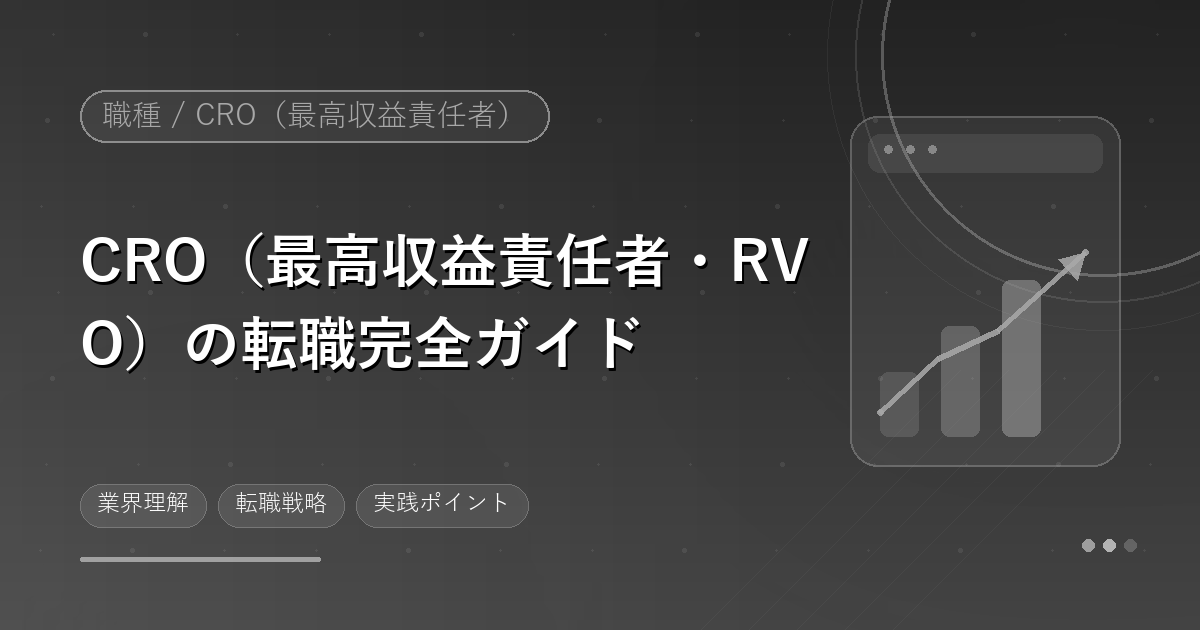
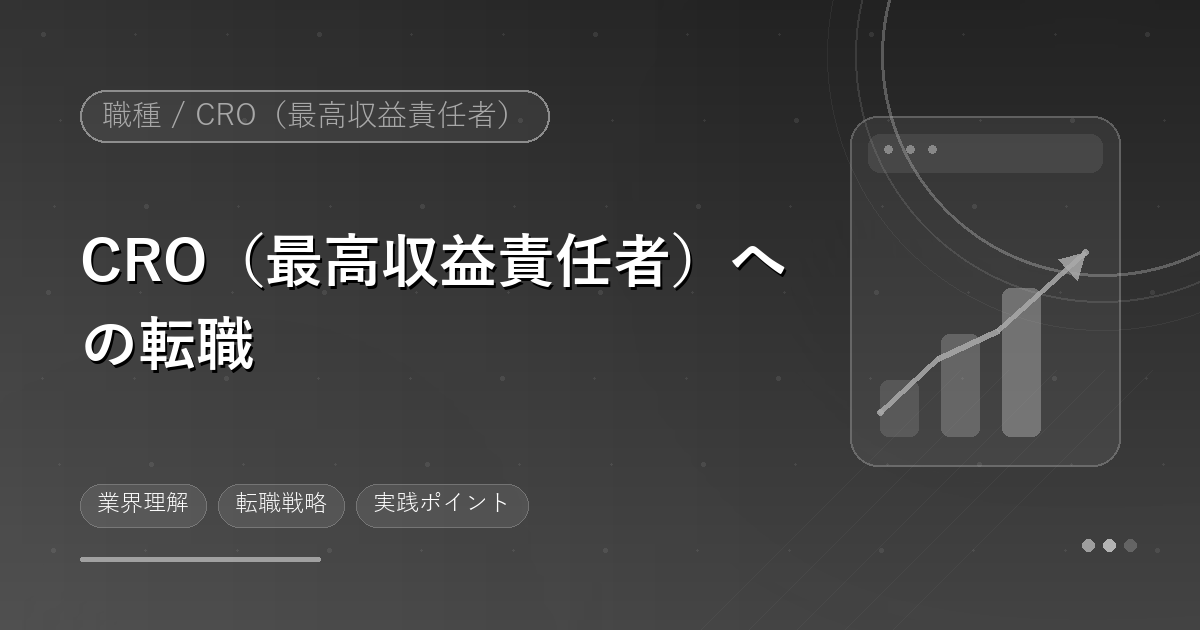
/media 企業記事など20本のタイトル・descriptionをGSC 10月分をもとに書き直し
Search Console 2026年10月で「10位以内なのにCTR1%未満」だった記事20本の
frontmatter title / description を、本文が答えている軸（年収→働き方→選考）で
組み直した案に置き換え。本文と他の frontmatter 項目は変更なし。

見出し（｜より前）が変わった7本（日本銀行・NTTコムウェア・FDE・PwC Strategy&・
TBSテレビ・CRO・プロダクトデザイナー）はアイキャッチに見出しが焼き込まれているため、
media-gen の make_images.py と同じ描画で画像を作り直した。

diff --git a/src/content/media/company-pwc-strategyand-reputation.md b/src/content/media/company-pwc-strategyand-reputation.md
@@ -1,6 +1,6 @@
 ---
-title: "Strategy&（ストラテジーアンド）とは｜PwCの戦略部門、ブーズ・アンド・カンパニーからの沿革と年収・評判"
-description: "Strategy&はPwCの戦略コンサルティング部門で、前身は1914年創業のブーズ・アンド・カンパニー（2014年にPwCへ統合）。日本では400人超のストラテジーコンサルティングユニットの一つです。沿革、年収の考え方、働き方の制度、評判、選考対策を公式情報で整理します。"
+title: "PwC Strategy&の評判｜年収の考え方・働き方の制度・選考フローを整理"
+description: "PwC Strategy&の年収は公表されているか。非上場のため平均年収の開示はなく、タイトル別レンジで決まる考え方を説明。フルリモート・コアなしフレックスなど公開されている働き方制度、ブーズからの沿革、選考フローと志望動機の要点を整理。戦略コンサルへの転職を考える人向け。"
 category: "企業"
 companyName: "Strategy&"
 hub: "consul"

diff --git a/src/content/media/network-engineer-future.md b/src/content/media/network-engineer-future.md
@@ -1,6 +1,6 @@
 ---
-title: "ネットワークエンジニアの将来性｜AI時代に生き残るネットワークエンジニアの条件"
-description: "ネットワークエンジニアの将来性を左右する構造的な変化ネットワークエンジニアの将来性に関して、率直に述べるならば「領域によって明暗が大きく分かれる」というのが現状の正確な認識です。インフラ自動化・クラウド化・AI活用が加…"
+title: "ネットワークエンジニアの将来性｜縮小・拡大する領域とスキル別の年収目安を整理"
+description: "ネットワークエンジニアに将来性はあるか。オンプレ運用のみは縮小、クラウド設計・自動化・ゼロトラストは拡大という領域別の見通し、スキル別の年収目安350万〜950万円、オンプレ専業からの移行パターン、資格の優先度を整理。キャリアの方向を決めたい人向け。"
 category: "職種"
 jobType: "ネットワークエンジニア"
 theme: "将来性"

diff --git a/src/content/media/product-designer-salary.md b/src/content/media/product-designer-salary.md
@@ -1,6 +1,6 @@
 ---
-title: "プロダクトデザイナーの年収相場【2026年版】｜20代・30代の年収レンジと上げ方"
-description: "プロダクトデザイナーの年収は、職種定義の広さや在籍企業のフェーズによって分散が大きく、同じ「プロダクトデザイナー」という肩書きでも年収差が200〜300万円以上開くケースは珍しくありません。本記事では年代・経験年数・企業…"
+title: "プロダクトデザイナーの年収｜年代・経験年数別レンジと企業タイプ別の上振れ要因"
+description: "プロダクトデザイナーの年収はいくらか。20代前半380〜520万円から30代後半800〜1,100万円までの年代・経験年数別レンジ、メガベンチャー・外資・受託など企業タイプ別のベース給与と上振れ要因、年収を左右する3つの構造、交渉例を整理。転職で年収を上げたい人向け。"
 category: "職種"
 jobType: "プロダクトデザイナー"
 theme: "年収相場"

diff --git a/src/content/media/fde-salary.md b/src/content/media/fde-salary.md
@@ -1,6 +1,6 @@
 ---
-title: "FDE（フォワードデプロイドエンジニア）の年収相場【2026年版】｜レンジの構造と上げ方"
-description: "FDEの年収は、同じ肩書きでも企業フェーズと職務範囲で大きく振れます。日本国内のレンジ目安、外資AI企業との水準差、ストックオプションを含む総報酬の考え方、そして年収を押し上げる交渉材料を整理します。"
+title: "FDEの年収｜ジュニア〜組織責任者の年収レンジ・総報酬の見方・上げ方"
+description: "FDE（フォワードデプロイドエンジニア）の年収はいくらか。ジュニア600万〜800万円から組織立ち上げ責任者1,600万円以上までのレイヤー別レンジ、ストックオプション・みなし残業を含む総報酬の確認点、年収を上げる交渉材料を整理。FDE求人を比較中の人向け。"
 category: "職種"
 jobType: "フォワードデプロイドエンジニア（FDE）"
 theme: "年収相場"

diff --git a/src/content/media/cro-career-guide.md b/src/content/media/cro-career-guide.md
@@ -1,6 +1,6 @@
 ---
-title: "CRO（最高収益責任者・RVO）の転職完全ガイド｜役割・CxOとの違い・市場価値"
-description: "CRO（Chief Revenue Officer／最高収益責任者、RVOとも表記）は、営業・マーケティング・カスタマーサクセスを横断し、収益全体に責任を持つ経営層です。役割の実態、CMO・COO・営業本部長との違い、日本での設置状況、そして候補になる人の条件を整理します。"
+title: "CRO（最高収益責任者）への転職｜役割・他のCxOとの違い・候補になる人の条件"
+description: "CROとは何をする役職か。営業・マーケ・CSを横断して収益に責任を持つ役割、CMO・COO・営業本部長との違い、日本でどの段階の企業に置かれるか、候補になる人の経験条件と決定的に効く3つの経験を整理。営業責任者から次を目指す人向け。"
 category: "職種"
 jobType: "CRO（最高収益責任者）"
 theme: "転職ガイド"

diff --git a/src/content/media/company-nttkomuuea-reputation.md b/src/content/media/company-nttkomuuea-reputation.md
@@ -1,6 +1,6 @@
 ---
-title: "NTTコムウェアの年収｜中途の概算年収589万〜892万円、初任給と評判（現NTTドコモソリューションズ）"
-description: "NTTコムウェア（2025年7月からNTTドコモソリューションズ）の年収を公式の募集要項から解説。経験者採用の概算年収589万〜892万円、新卒の初任給（大学卒341,000円）、賞与年2回、社名変更の中身と会社の規模まで整理します。"
+title: "NTTコムウェアの年収｜中途589万〜892万円・初任給・働き方を募集要項で整理"
+description: "NTTコムウェア（2025年7月からNTTドコモソリューションズ）に転職すると年収はいくらか。経験者採用の概算年収589万〜892万円、新卒初任給、月平均残業20時間の前提、賞与年2回、社名変更の中身を公式募集要項から整理。SIer・通信系PMを検討する人向け。"
 category: "企業"
 companyName: "NTTコムウェア"
 hub: "pm"

diff --git a/src/content/media/company-adobantejjipaatonaazu-reputation.md b/src/content/media/company-adobantejjipaatonaazu-reputation.md
@@ -1,6 +1,6 @@
 ---
-title: "アドバンテッジパートナーズの評判｜年収・働き方・選考対策まで解説"
-description: "アドバンテッジパートナーズを公式情報から整理。1997年の1号30億円から2026年の8号3,000億円までのファンド推移、日本バイアウト・アジア・上場企業支援の3事業、選考の要点を解説します。"
+title: "アドバンテッジパートナーズの評判｜ファンド規模・報酬の考え方・4部門と選考を整理"
+description: "アドバンテッジパートナーズの年収や働き方はどうか。報酬は非開示のため、1号30億円から8号3,000億円までのファンド推移を報酬原資の手がかりとして読み、日本バイアウト・PS・アジア等の4部門、求める人物像と選考の要点を公式情報から整理。PE転職を考える人向け。"
 category: "企業"
 companyName: "アドバンテッジパートナーズ"
 hub: "ma"

diff --git a/src/content/media/company-aozoraginkouguruupu-reputation.md b/src/content/media/company-aozoraginkouguruupu-reputation.md
@@ -1,6 +1,6 @@
 ---
-title: "あおぞら銀行グループの評判｜年収・働き方・選考対策まで解説"
-description: "あおぞら銀行を有価証券報告書から整理。平均年間給与927万円・平均勤続16.6年という構成、2023年度の大幅赤字からの回復、M&Aを担うABNアドバイザーズなど23社の子会社構成を解説します。"
+title: "あおぞら銀行グループの評判｜平均年収927万円・M&A子会社の構造・働き方を整理"
+description: "あおぞら銀行の年収は平均927万円（平均勤続16.6年）。M&Aアドバイザリーは本体でなく子会社ABNアドバイザーズが担う構造、2023年度の赤字からの回復、ノルマや在宅勤務に関する口コミの傾向、応募先法人の特定まで有価証券報告書から整理。金融・M&A転職を考える人向け。"
 category: "企業"
 companyName: "あおぞら銀行グループ"
 hub: "ma"

diff --git a/src/content/media/company-necsoryuushon-inobeeta-reputation.md b/src/content/media/company-necsoryuushon-inobeeta-reputation.md
@@ -1,6 +1,6 @@
 ---
-title: "NECソリューションイノベータの評判｜年収・働き方・選考対策まで解説"
-description: "NECソリューションイノベータを公式開示から整理。2026年10月1日にNECへ吸収合併される予定、売上高3,287億円・ITエンジニア1万人超という規模を解説します。"
+title: "NECソリューションイノベータの評判｜NECへの吸収合併・年収開示・選考の確認点"
+description: "NECソリューションイノベータは2026年10月1日にNECへ吸収合併される予定。年収は非公表（親会社NECの数字は別）、男性育休取得率75%、売上3,287億円・エンジニア1万人超の規模、入社日と所属法人・処遇の接続を選考で確かめる点を整理。応募を検討中の人向け。"
 category: "企業"
 companyName: "NECソリューションイノベータ"
 hub: "pm"

diff --git a/src/content/media/company-nipponginkou-reputation.md b/src/content/media/company-nipponginkou-reputation.md
@@ -1,6 +1,6 @@
 ---
-title: "日本銀行の年収は平均909万円｜管理職1,664万円と非管理職の差【令和7年度公表】"
-description: "日本銀行の年収を公表資料で解説。令和7年度の常勤職員は平均909万円・43.7歳、年俸制適用者は1,664万円。「低い」と言われる理由、総合職と一般職の初任給、役職別の水準までまとめます。"
+title: "日本銀行の年収｜平均909万円の二層構造・非管理職の水準・初任給を公表資料で整理"
+description: "日銀の年収は高いのか低いのか。令和7年度公表資料で、平均909万円が年俸制788人（1,664万円）と非管理職約2,900人（試算約708万円）に分かれる構造、総合職・一般職の初任給、役職別の水準を整理。30代で中途入社を考える人向け。"
 category: "企業"
 companyName: "日本銀行"
 hub: "pm"

diff --git a/src/content/media/company-kyadi-reputation.md b/src/content/media/company-kyadi-reputation.md
@@ -1,6 +1,6 @@
 ---
-title: "キャディの評判｜年収・働き方・選考対策まで解説"
-description: "キャディ株式会社を公式情報から整理。従業員911名・4カ国に拠点という体制と、受発注から製造業AIへ軸足を移した事業構造を解説します。"
+title: "キャディの評判｜従業員911名・4か国の拠点・年収の開示状況・選考で確かめること"
+description: "キャディの年収や残業は公開されているか。非上場のため平均年収・労働時間の一次情報はなく、従業員911名・資本金257.3億円・日米越泰の拠点、受発注から製造業AIへ移った事業構成、面接で確かめる項目を公式会社概要から整理。製造業スタートアップへの転職を考える人向け。"
 category: "企業"
 companyName: "キャディ"
 hub: "startup"

diff --git a/src/content/media/company-jrnishinihon-reputation.md b/src/content/media/company-jrnishinihon-reputation.md
@@ -1,6 +1,6 @@
 ---
-title: "JR西日本の評判｜年収・働き方・選考対策まで解説"
-description: "有価証券報告書から提出会社22,524人・平均年間給与727.6万円を整理しました。本体の従業員の99.6%がモビリティ業に属するという構成と、5つの労働組合についても解説します。"
+title: "JR西日本の評判｜平均年収727.6万円・本体と子会社の違い・選考で確かめる6点"
+description: "JR西日本の年収は提出会社22,524人の平均で727.6万円（平均年齢37.4歳）。本体の99.6%がモビリティ業で不動産・流通は子会社が担う構造、5つの労働組合、管理職女性比率4.3%の背景、給与テーブルや初期格付けなど選考で確かめる6点を有価証券報告書から整理。"
 category: "企業"
 companyName: "JR西日本"
 hub: "pm"
